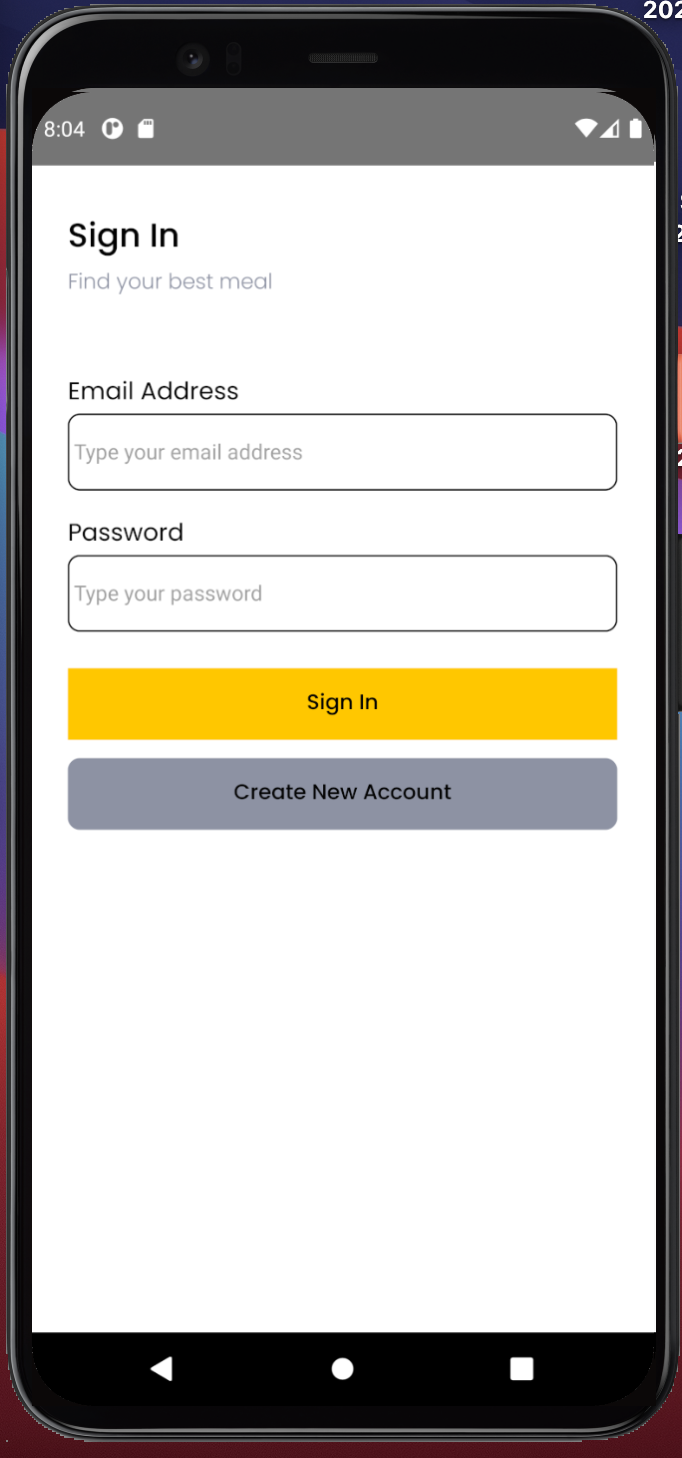
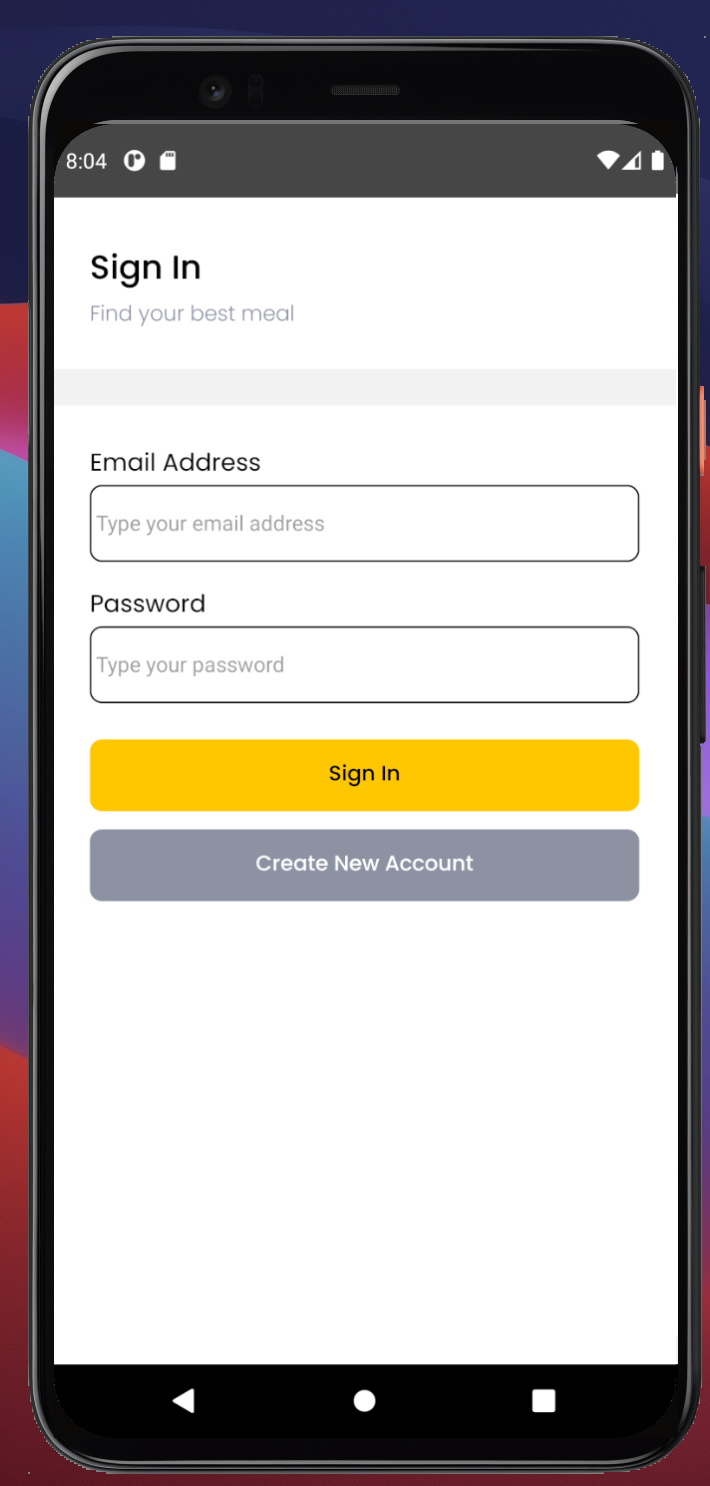
slicing address page

diff --git a/foodMarket/src/pages/SignUpAddress/index.js b/foodMarket/src/pages/SignUpAddress/index.js
@@ -1,0 +1,55 @@
+import React from 'react'
+import { StyleSheet, Text, View } from 'react-native';
+import { Buttons, Gaps, Headers, Select, TextInputs } from '../../components';
+
+const SignUpAddress = () => {
+    return (
+        <View style={styles.page}>
+            <Headers 
+                title="Address" 
+                subTitle="Make sure it’s valid"
+                onBack={() => {}}
+            />
+            <View style={styles.container}>    
+                <TextInputs 
+                    label="Phone No."
+                    placeholder="Type your phone number"
+                />
+                <Gaps height={16}/>
+                <TextInputs 
+                    label="Address"
+                    placeholder="Type your address"
+                />
+                <Gaps height={16}/>
+                <TextInputs
+                    label="House No."
+                    placeholder="Type your house number"
+                />
+                <Gaps height={16}/>
+                <Select />
+                <Gaps height={24}/>
+                <Buttons 
+                    text="Sign Up Now" 
+                    onPress={() => navigation.navigate('SignUp')}
+                />
+            
+        </View>
+        </View>
+    )
+}
+
+export default SignUpAddress;
+
+const styles = StyleSheet.create({
+    page : {
+        flex: 1,
+    },
+    container : {
+        backgroundColor: 'white',
+        paddingHorizontal: 24,
+        paddingVertical: 26,
+        marginTop: 24,
+        flex: 1
+    },
+
+})

diff --git a/foodMarket/src/pages/SignUp/index.js b/foodMarket/src/pages/SignUp/index.js
@@ -1,7 +1,7 @@
 import React from 'react'
 import { StyleSheet, Text, View } from 'react-native'
 import { Buttons, Gaps, Headers, TextInputs } from '../../components';
-const SignUp = () => {
+const SignUp = ({navigation}) => {
     return (
         <View style={styles.page}>
              <Headers 
@@ -16,6 +16,7 @@ const SignUp = () => {
                         </View>
                     </View>
                 </View>
+                <TextInputs />
                 <TextInputs 
                     label="Fullname"
                     placeholder="Type your fullname address"
@@ -34,11 +35,10 @@ const SignUp = () => {
                 
                 <Buttons 
                     text="Continue" 
-                    onPress={() => navigation.navigate('SignUp')}
+                    onPress={() => navigation.navigate('SignUpAddress')}
                 />
                 
             </View>
-            <Text>sign up</Text>
         </View>
     )
 }
@@ -53,7 +53,7 @@ const styles = StyleSheet.create({
         backgroundColor: 'white',
         paddingHorizontal: 24,
         paddingVertical: 26,
-        paddingTop: 24,
+        marginTop: 24,
         flex: 1
     },
     photo: {

diff --git a/foodMarket/src/components/molecules/Headers/index.js b/foodMarket/src/components/molecules/Headers/index.js
@@ -6,19 +6,16 @@ import { Icback } from '../../../assets/icon'
 const Headers = ({title, subTitle, onBack}) => {
     return (
         <View style={styles.container}> 
-        {
-            onBack && (
+        { onBack && (
                <TouchableOpacity activeOpacity={0.7}>
                     <View style={styles.back}>
                         <Icback />   
                     </View>    
                 </TouchableOpacity>  
-            )
-        }
-            
+            )}
             <View>
                 <Text style={styles.title}>{title}</Text>
-            <Text style={styles.subTitle}>{subTitle}</Text>
+                <Text style={styles.subTitle}>{subTitle}</Text>
             </View>
             
         </View>
@@ -34,7 +31,7 @@ const styles = StyleSheet.create({
         paddingTop: 30,
         paddingBottom: 24,
         flexDirection : 'row',
-        alignItems: 'center'
+        alignItems: 'center',
     },
     title: {
         fontSize: 22,
@@ -47,7 +44,6 @@ const styles = StyleSheet.create({
         color: '#8D92A3'
     },
     back: {
-        // backgroundColor:'yellow',
         padding: 16,
         marginRight: 16,
         marginLeft: -10

diff --git a/foodMarket/src/components/atoms/Select/index.js b/foodMarket/src/components/atoms/Select/index.js
@@ -1,0 +1,40 @@
+import React from 'react'
+import { StyleSheet, Text, View } from 'react-native'
+import {Picker} from '@react-native-picker/picker';
+
+const Select = () => {
+    return (
+        <View>
+            <Text style={styles.label}>City </Text>
+            <View style={styles.input}>
+                <Picker
+                    // selectedValue={this.state.language}
+                    // onValueChange={(itemValue, itemIndex) =>
+                    //     this.setState({language: itemValue})
+                    // }
+                >
+                    <Picker.Item label="Java" value="java" />
+                    <Picker.Item label="JavaScript" value="js" />
+                </Picker>
+            </View>
+            
+        </View>
+    )
+}
+
+export default Select;
+
+const styles = StyleSheet.create({
+    label :{
+        fontSize: 16,
+        fontFamily:'Poppins-Regular',
+        color: '#020202'
+    },
+    input : {
+        borderWidth: 1,
+        borderColor: '#020202',
+        borderRadius: 8,
+        paddingHorizontal: 2,
+        paddingVertical: 0
+    },
+})

diff --git a/foodMarket/src/router/index.js b/foodMarket/src/router/index.js
@@ -3,6 +3,7 @@ import SignIn from '../pages/SignIn';
 import SplashScreen from '../pages/SplashScreen';
 import SignUp from '../pages/SignUp';
 import { createStackNavigator } from '@react-navigation/stack';
+import SignUpAddress from '../pages/SignUpAddress';
 
 
 
@@ -29,6 +30,13 @@ const Router = () => {
         <Stack.Screen
             name="SignUp"
             component={SignUp}
+            options={{
+                headerShown: false
+            }}
+        />
+         <Stack.Screen
+            name="SignUpAddress"
+            component={SignUpAddress}
             options={{
                 headerShown: false
             }}

diff --git a/foodMarket/src/pages/SignIn/index.js b/foodMarket/src/pages/SignIn/index.js
@@ -34,13 +34,13 @@ export default SignIn;
 
 const styles = StyleSheet.create({
     page : {
-        flex: 1
+        flex: 1,
     },
     container : {
         backgroundColor: 'white',
         paddingHorizontal: 24,
         paddingVertical: 26,
-        paddingTop: 24,
+        marginTop: 24,
         flex: 1
     }
 })

diff --git a/foodMarket/src/pages/index.js b/foodMarket/src/pages/index.js
@@ -1,9 +1,10 @@
 import SplashScreen from './SplashScreen';
 import SignIn from './SignIn';
 import SignUp from './SignUp';
-
+import SignUpAddress from './SignUpAddress';
 export {
     SplashScreen,
     SignIn,
     SignUp,
+    SignUpAddress
 };

diff --git a/foodMarket/src/components/atoms/index.js b/foodMarket/src/components/atoms/index.js
@@ -1,9 +1,11 @@
 import TextInputs from './TextInputs';
 import Buttons from './Buttons';
 import Gaps from './gap';
+import Select from './Select';
 
 export {
     TextInputs,
     Buttons,
-    Gaps
+    Gaps,
+    Select
 }
